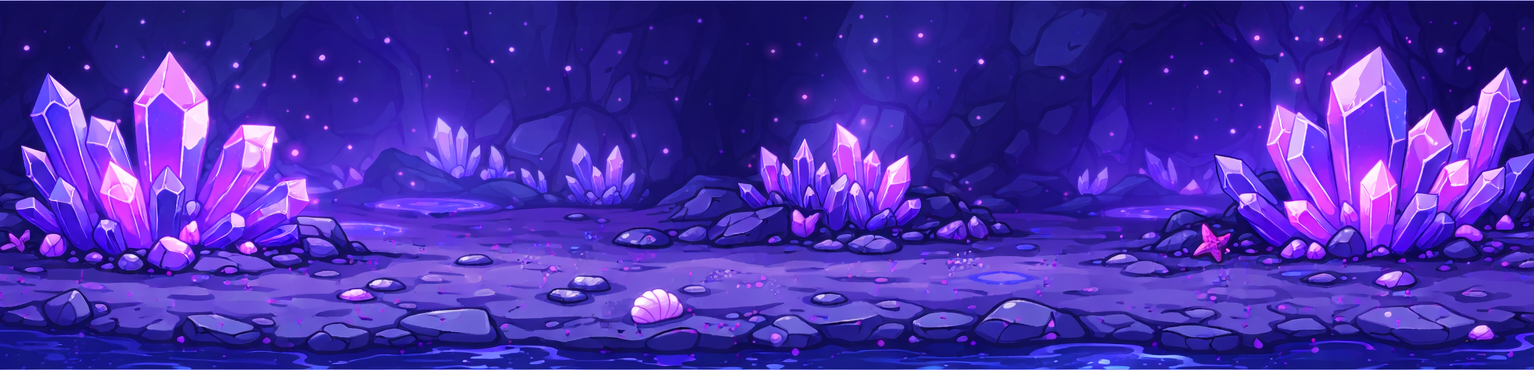
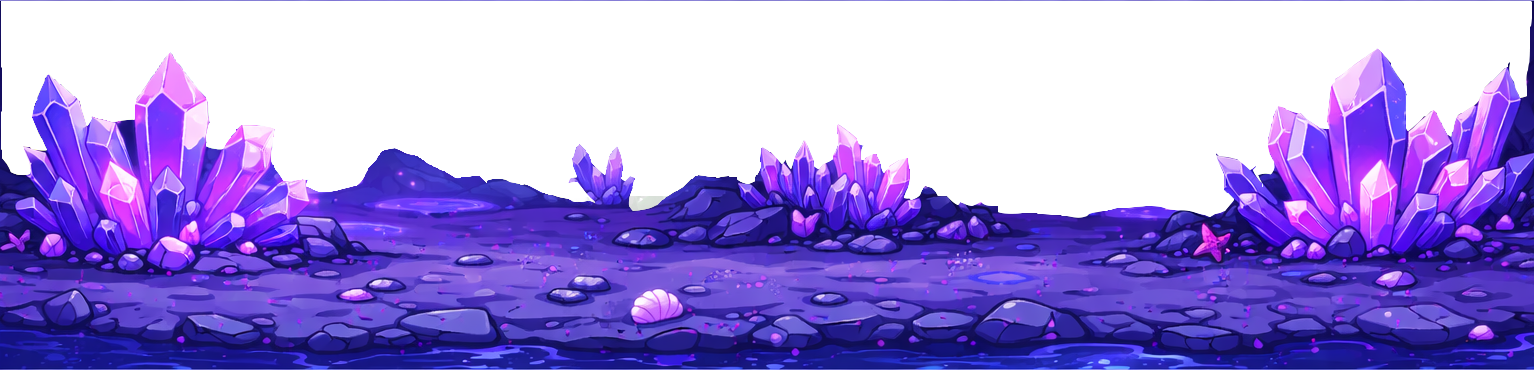
Fix on position
Position fix

diff --git a/lib/game/components/world_component.dart b/lib/game/components/world_component.dart
@@ -3,6 +3,8 @@ import 'package:flame/components.dart';
 import 'package:flame/game.dart';
 import '../biome_run_game.dart';
 import '../biomes/biome_type.dart';
+import 'package:flutter/material.dart';
+
 
 class WorldComponent extends Component with HasGameReference<BiomeRunGame> {
   BiomeType currentBiome = BiomeType.forest;
@@ -23,24 +25,23 @@ class WorldComponent extends Component with HasGameReference<BiomeRunGame> {
   }
 
   Future<void> _loadBiome(BiomeType biome) async {
-    // Remove old components
     removeAll(children);
 
     final size = game.size;
 
-    // Background
-    final bgSprite = await Sprite.load(biome.backgroundPath);
-    _background = SpriteComponent(
-      sprite: bgSprite,
+    // Solid color background instead of image
+    final bgColor = _getBiomeColor(biome);
+    final background = RectangleComponent(
       position: Vector2.zero(),
-      size: Vector2(size.x, size.y),
+      size: size,
+      paint: Paint()..color = bgColor,
     );
-    await add(_background);
+    await add(background);
 
-    // Ground — two tiles side by side for seamless scrolling
+    // Ground sprite
     final groundSprite = await Sprite.load(biome.groundPath);
     final groundHeight = size.y * 0.18;
-    final groundY = size.y * 0.82;
+    final groundY = size.y * 0.72;
 
     _groundLeft = SpriteComponent(
       sprite: groundSprite,
@@ -56,6 +57,19 @@ class WorldComponent extends Component with HasGameReference<BiomeRunGame> {
 
     await add(_groundLeft);
     await add(_groundRight);
+  }
+
+  Color _getBiomeColor(BiomeType biome) {
+    switch (biome) {
+      case BiomeType.forest:
+        return const Color(0xFF1A1A2E);
+      case BiomeType.volcano:
+        return const Color(0xFF2D0A00);
+      case BiomeType.ocean:
+        return const Color(0xFF001A2D);
+      case BiomeType.crystal:
+        return const Color(0xFF1A0029);
+    }
   }
 
   @override

diff --git a/lib/game/components/spawner_component.dart b/lib/game/components/spawner_component.dart
@@ -37,21 +37,22 @@ class SpawnerComponent extends Component
   }
 
   void _spawnObstacle() {
-    final height = _random.nextDouble() * 40 + 40;
     final biome = game.gameWorld.currentBiome;
     final obstacles = biome.obstaclePaths;
     final spritePath = obstacles[_random.nextInt(obstacles.length)];
+    final width = 70.0 + _random.nextDouble() * 30;
+    final height = 80.0 + _random.nextDouble() * 20;
 
     game.add(ObstacleComponent(
-      position: Vector2(game.size.x + 50, game.groundY - height),
-      size: Vector2(80, height),
+      position: Vector2(game.size.x + 50, game.groundY - height + 10),
+      size: Vector2(width, height),
       spritePath: spritePath,
     ));
   }
 
   void _spawnCollectible() {
     final isGem = _random.nextDouble() < 0.15;
-    final yPos = game.groundY - (_random.nextDouble() * 120 + 30);
+    final yPos = game.groundY - (_random.nextDouble() * 100 + 20);
     game.add(CoinComponent(
       position: Vector2(game.size.x + 50, yPos),
       collectibleType: isGem ? CollectibleType.gem : CollectibleType.coin,

diff --git a/lib/main.dart b/lib/main.dart
@@ -96,14 +96,17 @@ class _AppNavigatorState extends State<AppNavigator> {
     switch (_screen) {
       case 'game':
         screen = Scaffold(
-          body: Stack(
-            children: [
-              GameWidget(
-                key: ValueKey(_gameKey),
-                game: _game!,
-              ),
-              CreatureSwapBar(game: _game!),
-            ],
+          body: SafeArea(
+            bottom: true, // ← respects navigation bar
+            child: Stack(
+              children: [
+                GameWidget(
+                  key: ValueKey(_gameKey),
+                  game: _game!,
+                ),
+                CreatureSwapBar(game: _game!),
+              ],
+            ),
           ),
         );
         break;

diff --git a/lib/game/components/player_component.dart b/lib/game/components/player_component.dart
@@ -9,7 +9,7 @@ import '../biome_run_game.dart';
 class PlayerComponent extends SpriteComponent
     with CollisionCallbacks, HasGameReference<BiomeRunGame> {
 
-  double get groundY => game.groundY - size.y;
+  double get groundY => game.groundY - size.y + 10;
 
   CreatureType currentType = CreatureType.fire;
   double _velocityY = 0;
@@ -23,7 +23,11 @@ class PlayerComponent extends SpriteComponent
     await super.onLoad();
     position = Vector2(100, groundY);
     await _loadSprite();
-    add(RectangleHitbox());
+    // Smaller hitbox for fairer collisions
+    add(RectangleHitbox(
+      size: Vector2(size.x * 0.5, size.y * 0.7),
+      position: Vector2(size.x * 0.25, size.y * 0.3),
+    ));
   }
 
   Future<void> _loadSprite() async {

diff --git a/lib/game/components/obstacle_component.dart b/lib/game/components/obstacle_component.dart
@@ -22,7 +22,11 @@ class ObstacleComponent extends SpriteComponent
   Future<void> onLoad() async {
     await super.onLoad();
     sprite = await Sprite.load(spritePath);
-    add(RectangleHitbox());
+    // Smaller hitbox than visual size to be more forgiving
+    add(RectangleHitbox(
+      size: Vector2(size.x * 0.6, size.y * 0.7),
+      position: Vector2(size.x * 0.2, size.y * 0.3),
+    ));
   }
 
   @override

diff --git a/lib/game/biomes/biome_type.dart b/lib/game/biomes/biome_type.dart
@@ -65,11 +65,11 @@ extension BiomeTypeExtension on BiomeType {
       case BiomeType.forest:
         return 0;
       case BiomeType.volcano:
-        return 500;
+        return 50;
       case BiomeType.ocean:
-        return 1000;
+        return 100;
       case BiomeType.crystal:
-        return 1500;
+        return 150;
     }
   }
 

diff --git a/lib/game/biome_run_game.dart b/lib/game/biome_run_game.dart
@@ -38,7 +38,7 @@ class BiomeRunGame extends FlameGame
   Future<void> onLoad() async {
     await super.onLoad();
 
-    groundY = size.y * 0.85;
+    groundY = size.y * 0.72;
     gameWorld = WorldComponent();
     await add(gameWorld);
     player = PlayerComponent();
